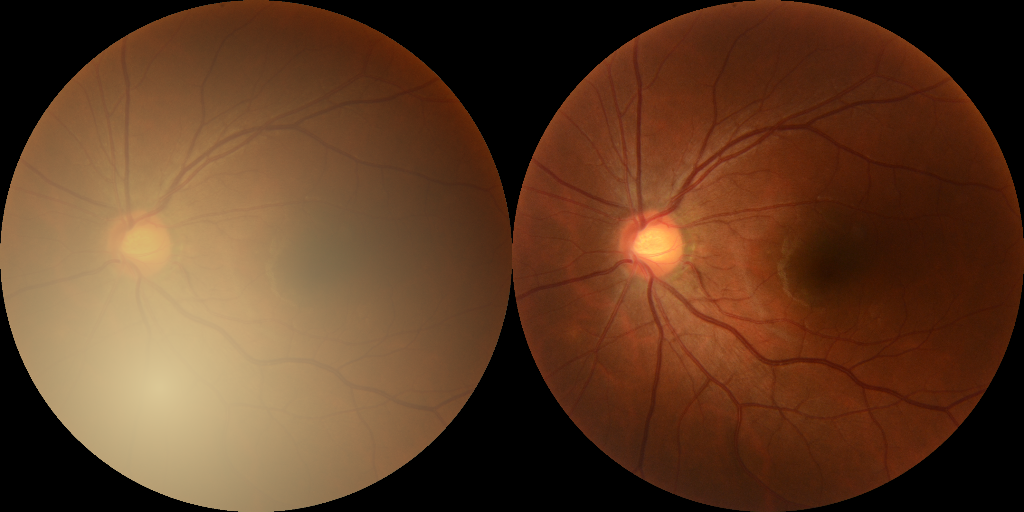
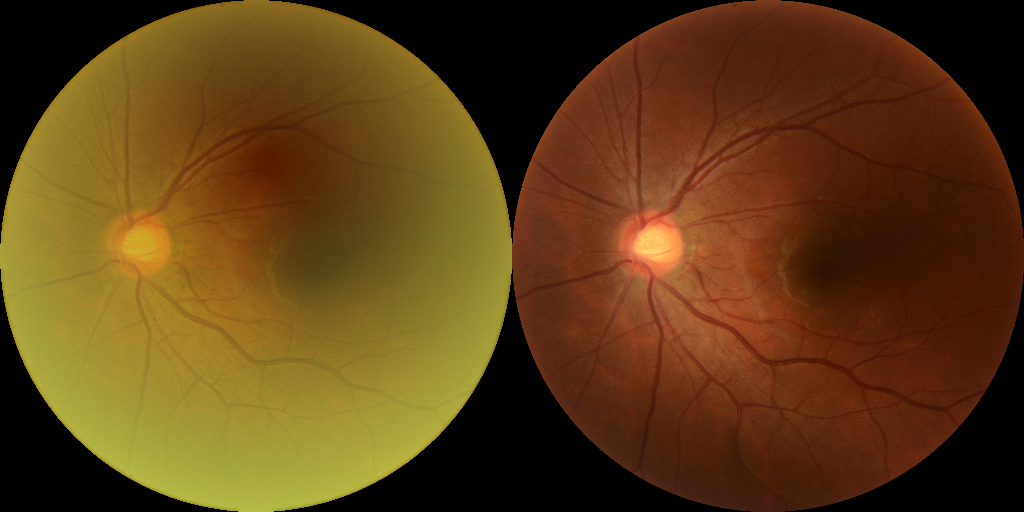
feat:完成了模拟白内障图像物理模型的重构

diff --git a/get_low_quailty/re_cataract_simulation.py b/get_low_quailty/re_cataract_simulation.py
@@ -29,6 +29,13 @@ def gaussian(img):
     k5 = ndimage.convolve(img, kernel_5x5)
     return k5
 
+# 高斯模糊在通道层面应用
+def gaussian_blur_channel(img, sigma=[1.5, 1.2, 1.0]):
+    channels = list(cv2.split(img))
+    for i in range(len(channels)):
+        channels[i] = ndimage.gaussian_filter(channels[i], sigma[i])
+    return cv2.merge(channels)
+
 # 白内障眼底图像模拟
 def cataract_simulation(filepath, maskpath, image_size):
     # 读取 img | mask
@@ -52,23 +59,44 @@ def cataract_simulation(filepath, maskpath, image_size):
     transmap[w//2+wp, h//2+hp] = 0
     transmap = gaussian(ndimage.distance_transform_edt(transmap))*mask
     transmap = transmap / transmap.max()
-    transmap = 1 - transmap
+    tau = transmap  # 这里的话感觉还是和论文有点出入，不知道为啥这样效果好一点
+
     # L = 255.0
     # L也加上颜色衰减
-    L_c = np.array([150, 200, 220])
-    transmap = transmap[:, :, np.newaxis]
+    L_c = np.array([150, 200, 220], dtype=np.float32)
+    tau = tau[:, :, np.newaxis]
 
-    panel = transmap*(L_c-s_attention)
+    # 计算 panel
+    panel = tau*(L_c-s_attention)
+    beta = 0.6
+    panel = beta * panel    # 乘上一个衰减系数
+
+    sigma = [2.0, 1.5, 1.0]
+    panel = gaussian_blur_channel(panel, sigma=sigma)
+    panel = cv2.GaussianBlur(panel, (7, 7), 1.5)
+
+    # 添加 "黄色" 偏置，为了增加白内障引起的黄褐色
+    yellow_bias = tau*np.array([0, 60, 35])
+    panel += yellow_bias
+
+    mask = mask[:, :, np.newaxis]
+    panel *= mask
+    
     cv2.imwrite('get_low_quailty/test_image/panel.png', np.concatenate([panel, img], 1))
 
-    img_A = s_attention + panel
-
+    # 加权合成
+    img_A = 0.85*s_attention + panel
     img_A[img_A>255] = 255
-    mask = mask[:, :, np.newaxis]
+    
+    # 颜色增强
+    c = random.uniform(0.9, 1.3)
+    b = random.uniform(0.9, 1.0)
+    e = random.uniform(0.9, 1.3)
+    img_enhanced_color = Image.fromarray((img_A).astype('uint8'))
 
-    return img_A*mask, img
+    enh_con = ImageEnhance.Contrast(img_enhanced_color).enhance(c)
+    enh_bri = ImageEnhance.Brightness(enh_con).enhance(b)
+    enh_col = ImageEnhance.Color(enh_bri).enhance(e)
+    img_A= enh_col*mask
 
-if __name__ == '__main__':
-    print(os.getcwd())
-    img_A, img = cataract_simulation('get_low_quailty/test_image/NL_001.png', 'get_low_quailty/test_image/NL_001_mask.png', 512)
-    cv2.imwrite('get_low_quailty/test_image/re_method.png', np.concatenate([img_A, img], 1))
+    return img_A, img

diff --git a/get_low_quailty/cataract_simulation.py b/get_low_quailty/cataract_simulation.py
@@ -44,7 +44,6 @@ def cataract_simulation(filepath, maskpath, image_size):
     transmap = np.ones(shape=[h, w])
     transmap[w//2+wp, h//2+hp] = 0
     transmap = gaussian(ndimage.distance_transform_edt(transmap))*mask
-    print(transmap.shape)
     transmap = transmap / transmap.max()
 
     # 模拟乘上衰减系数的眼底图像 a*s(i, j)
@@ -77,7 +76,3 @@ def cataract_simulation(filepath, maskpath, image_size):
     img_A = enh_col*mask
 
     return img_A, img
-
-if __name__ == '__main__':
-    img_A, img_B = cataract_simulation('get_low_quailty/test_image/NL_001.png', 'get_low_quailty/test_image/NL_001_mask.png', 512)
-    # cv2.imwrite('test_image/original_method.png', np.concatenate([img_A, img_B], 1))

diff --git a/rate_logs.md b/rate_logs.md
@@ -1,7 +1,12 @@
 rate logs
 
 - [x] 完成了对模拟白内障眼底图像的数学建模
-
 - [x] 完成了对模拟白内障眼底图像的代码实现
+- [x] 重构模拟白内障物理模型的代码实现
+  1. alpha、beta等现有固定参数是可以使用更加随机的方式指定的
+  2. transmap 即原来论文中的 t(i, j) 函数 并不适用
+  3. 论文中对白内障图像的模拟讲了一个物理成像模型，但是实际代码实现我感觉用的是启发式方法
+  4. 所以我再次重构了论文中的基于物理模型的代码实现
 
-- [ ] 重构模拟白内障物理模型的代码实现（未）
+- [ ] 制作mask
+- [ ] 制作数据集类 cataract_pairs.datasets
